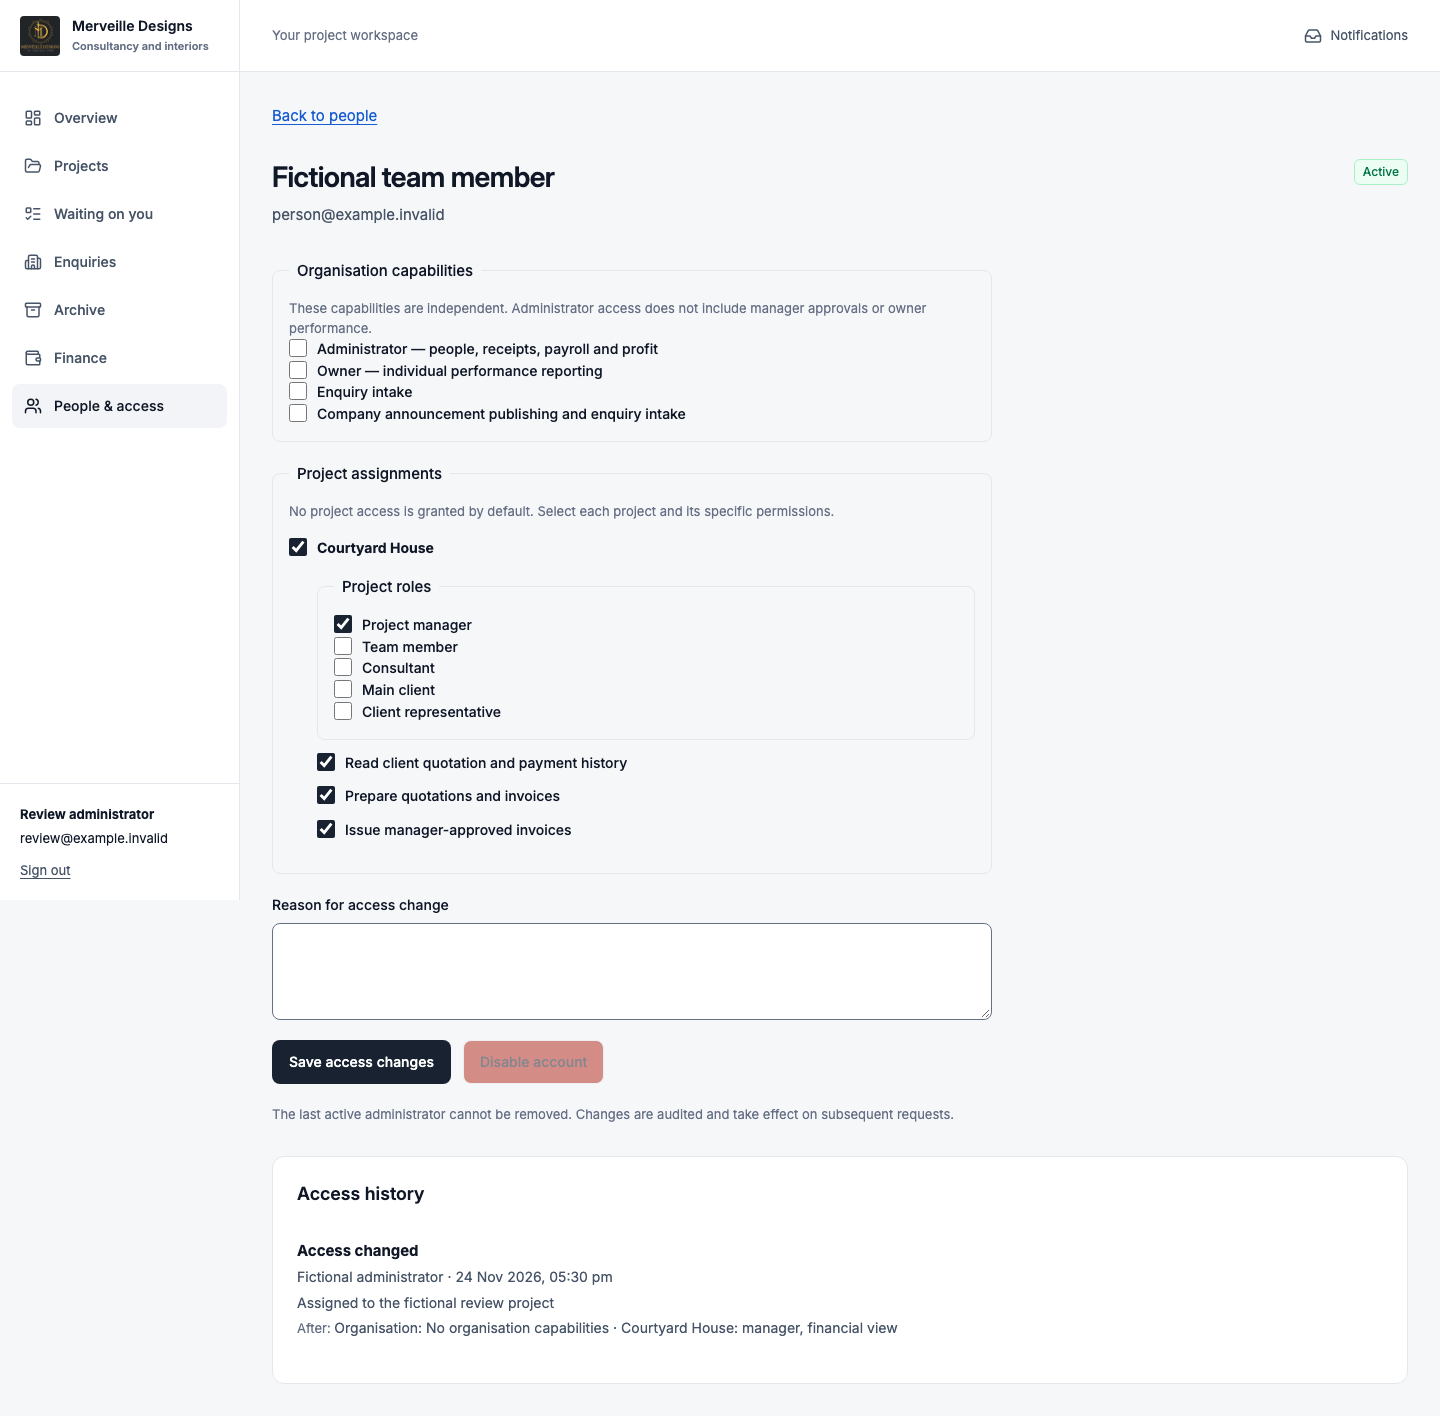
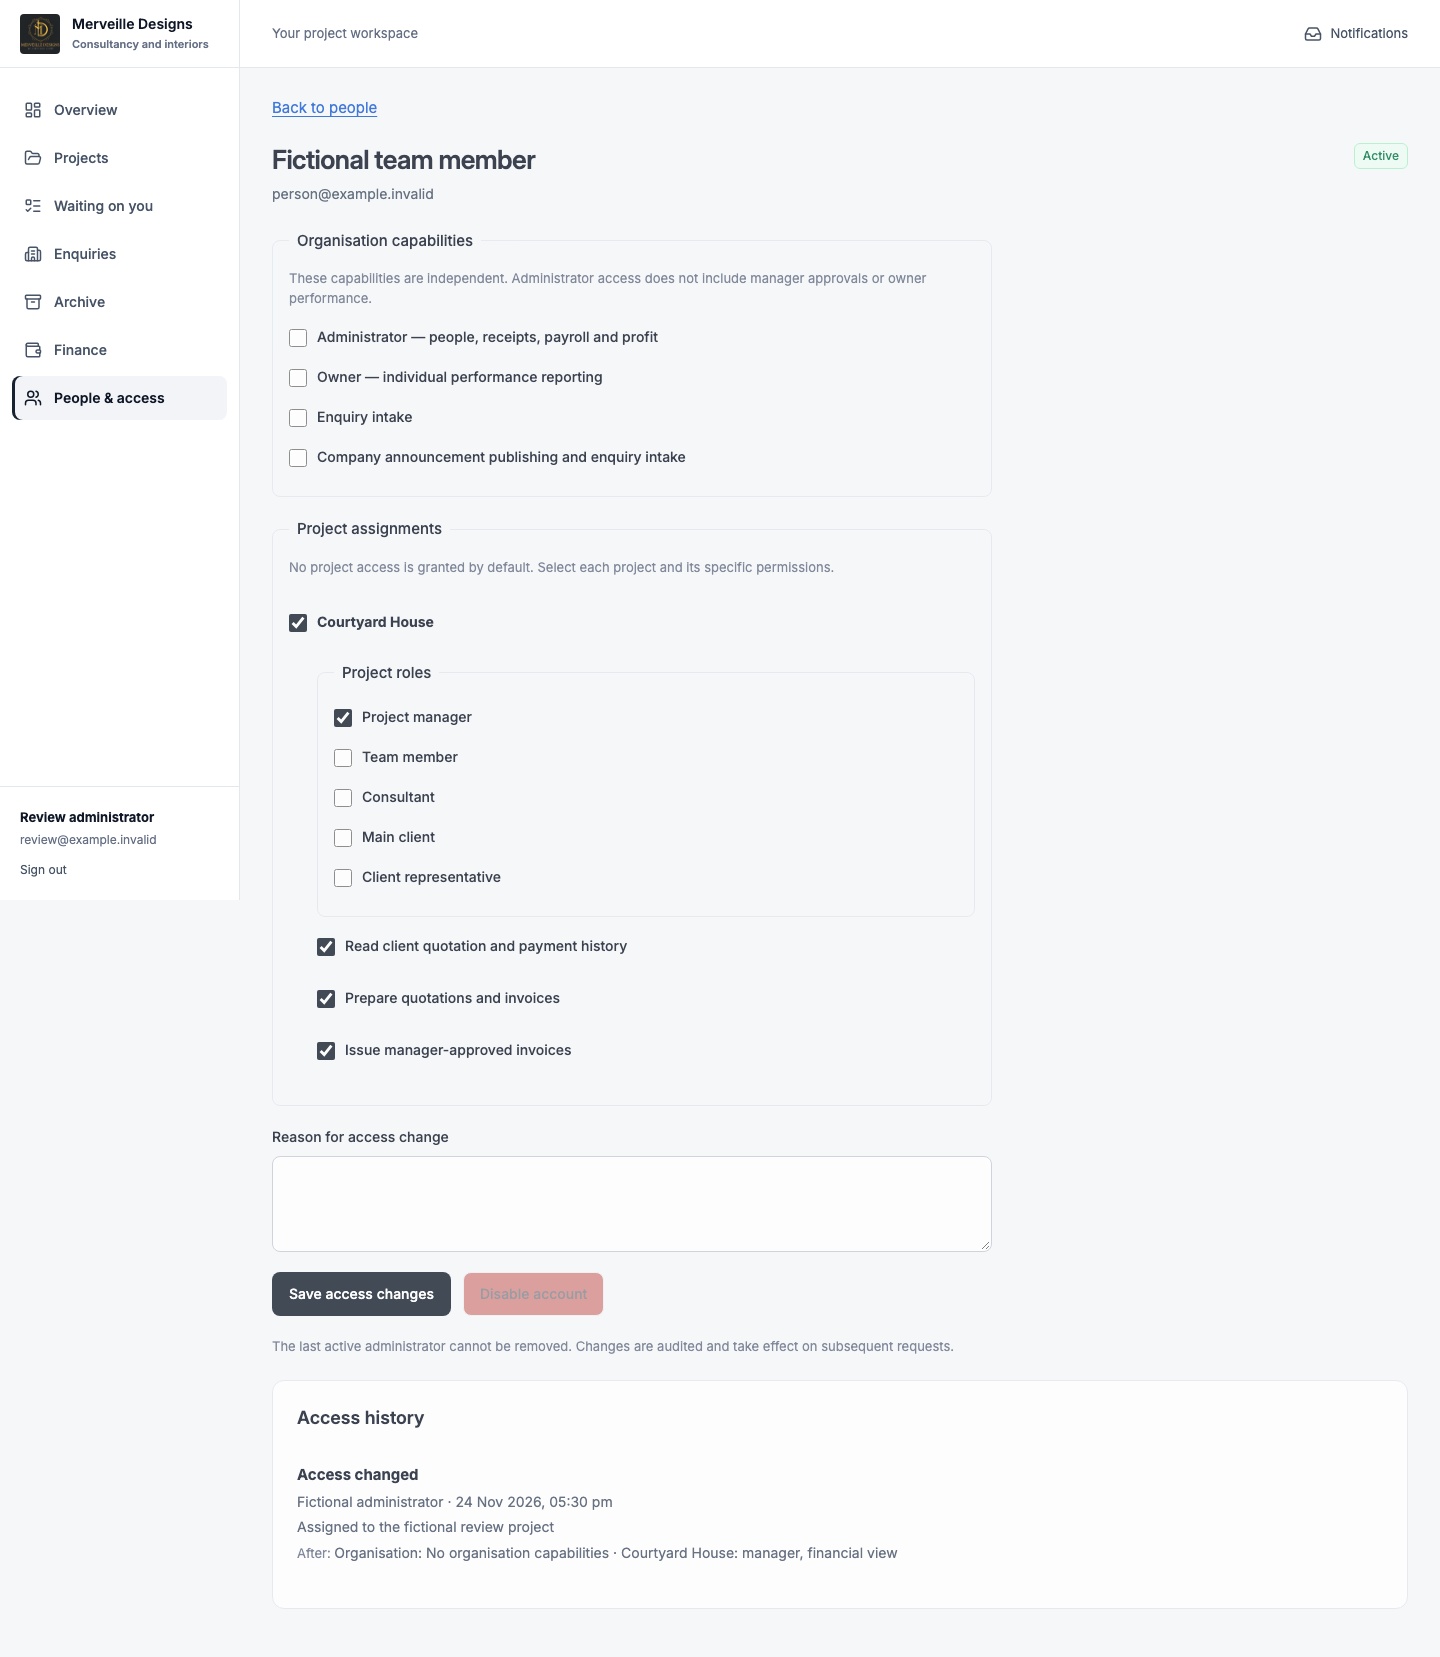
Record deployed portal refinement and responsive motion verification

diff --git a/docs/evidence/remediation/session.md b/docs/evidence/remediation/session.md
@@ -140,3 +140,18 @@ First staging deployment failed because Wrangler OAuth had expired and could not
 Added [R05 open-gate audit](r05-open-gates.md). Corrected stale Google-only kickoff and company retry wording. Explicitly surfaced a gap: nightly management-API backup scheduling, stale-success monitoring and continuous retention operations are not operational; the notification Cron and completed manual transport drill do not satisfy them. This requires implementation plus a separate scoped backup credential and actual hosted repeated-run evidence; the invitation token must not be broadened. Real team role/business UAT, real notification/webhook provider checks and populated remote recovery remain open.
 
 `npm run check:handoff` passed: 421 files, 677 local links, 70 acceptance cases. Documentation validation is distinct from application tests. Next input: private team mailboxes and deliberate global/project roles. Independent backup automation remains a separate unfinished engineering/credential gate, not a reason to label R05 complete.
+
+
+## 25 November — screenshot-driven premium UI refinement
+
+User requested fixing apparent 27 November access expiry, spacing/aesthetics, screen transitions and microinteractions, and deploying. Source `064f0d8` on `implement/merveille-portal`. Followed reviewed local frontend-design/build-merveille/Wrangler guidance. Plan: [design refinement](../../design/2026-11-25-polish.md).
+
+Verified invitation deadline affects only pending link acceptance, not active membership or bound-identity admission. No Cloudflare policy/account duration changed. Accepted history now reads “Account active · no scheduled access expiry”; pending dates explicitly identify the invitation link. Dialog explains 72-hour link validity and continuing accepted access. Added domain regression: after acceptance, expire the stored invitation and verify the same account and contractual grant still load. No extra roles, identity linking or account expiry bypass.
+
+Refined shared content gutters/24px rhythm, heading scale, neutral field borders, choice-row spacing, table interaction feedback and dialog backdrop/entrance. Compact priority emptiness, aligned project search/stage/archive filters and restored previously white-on-white Include Archived label with correct checkbox label association. Finance heading precedes one action row; duplicate Record Expense removed while preserving the functioning accounting forms. Archive uses the shared header/gutter. Mobile notifications now share the brand/menu header instead of occupying a second row. Next Link replaces full-load project navigation. One 160ms route opacity reveal, 180ms dialog entrance and short pressed/nav feedback honor global reduced-motion rules.
+
+Actual commands/results: `npm test` 106 tests/22 files passed; `npm run typecheck` passed; final `npm run build:worker` passed. `npm run test:browser` final 114 checks passed, 29 routes at 1440×900, 1024×768 and 390×844 plus focused identity/form/network/keyboard cases; zero page overflow or JS errors. New rendered checks verify accepted-account copy and disabled route/dialog animation under reduced motion. Earlier review caught an unintended desktop 14px field regression against the existing readability check; restored 16px controls before final pass. A new test initially used visible Close text instead of the control's accessible Close dialog label; corrected selector and reran. Logs `.private/polish-tests.log`, `.private/polish-typecheck.log`, `.private/polish-final-build.log`, `.private/polish-browser.log`. Public refreshed screenshots contain only fictional fixture records; they are not real business UAT.
+
+`wrangler whoami` verified pinned account; `wrangler deploy --env staging` succeeded, web version `3e003439-210c-42a3-9613-b4656648e7b9`; jobs unchanged. Actual Chrome signed-in ADMIN review verified accepted account has no expiry date, dialog link-only explanation, exactly one Record expense action, readable project filter, animated route and phone header with one Notifications link/no overflow. Reviewed actual screenshots; viewport restored afterward. Private proof `.private/polish-staging-people.jpg`, `.private/polish-finance-desktop.jpg`; no real email or screenshot committed. No invitation submission, financial record or permission mutation performed during this visual review.
+
+`npm run check:handoff` passed. R05 team/provider/continuous-backup/populated-remote-recovery gates remain unchanged and open; this is a deployed UI refinement, not blanket release acceptance.

diff --git a/task.md b/task.md
@@ -17,7 +17,7 @@ Dependencies and exact contracts: [active manifest](docs/remediation/manifest.js
 
 ## Current checkpoint
 
-- Current branch: `implement/merveille-portal`. Existing logo, Next/OpenNext and Wrangler foundation preserved. Latest deployed web `a5e8cbe1-52fc-460a-95b9-9fcb3005dce4`; jobs `de09aa26-c792-41d0-9b21-d91e7d6faa3b`.
+- Current branch: `implement/merveille-portal`. Existing logo, Next/OpenNext and Wrangler foundation preserved. Latest deployed web `3e003439-210c-42a3-9613-b4656648e7b9`; jobs `de09aa26-c792-41d0-9b21-d91e7d6faa3b`.
 - Protected staging: https://merveille-web-staging.rhelo-bible.workers.dev. User completed Cloudflare One-time PIN login. Existing initial ADMIN retained; OWNER endpoint denied. Last-administrator removal denied with clear guidance and unchanged atomic guard. Google Cloud configuration is no longer required for team sign-in.
 - Explicitly approved single-policy Admin credential is installed only in web/jobs platform secrets. Temporary transfer file deleted. Unrelated policy GET denied 403; actual People & access refresh reported “Invitation access is up to date.” No broad/domain admission was added.
 - Actual local checks: typecheck, 106 tests/22 files, ten workerd checks through all 21 migrations, Worker build passed. Typed last-admin assertions passed in 10 authorization tests. Earlier built frontend passed 112 checks across 29 pages/three viewport sizes with fictional API fixtures; this is distinct from real team UAT.
@@ -26,6 +26,13 @@ Dependencies and exact contracts: [active manifest](docs/remediation/manifest.js
 - Next exact action: obtain other team members’ exact sign-in emails and explicit global/project roles privately, invite through People & access, then complete second-admin, role-boundary and business UAT with their own accounts. No demo/impersonation controls exist.
 - Sister/company installation will use a separate Cloudflare account and fresh resources, secrets and bootstrap; cloning source alone does not transfer infrastructure. See [company setup](docs/operations/company-account-setup.md).
 - R05 remains open for team UAT, real provider/webhook tests, continuous backup implementation/configuration and populated remote recovery. See [actual evidence](docs/evidence/remediation/session.md) and [handoff](docs/operations/real-account-handoff.md). No production migration or WhatsApp send was performed.
+
+## Latest UI refinement
+
+- Source `064f0d8`, deployed web `3e003439-210c-42a3-9613-b4656648e7b9`. User screenshot review drove aligned gutters/section rhythm, compact empty states, readable project filters, softer fields, spaced capability choices, one finance action row, and a single compact mobile header.
+- Accepted invitation history now says “Account active · no scheduled access expiry.” The old date was a pre-acceptance link deadline; no account cutoff existed or was extended. Pending links remain single-use and time-limited. A regression verifies account/grants remain active after the stored invitation deadline.
+- Short route fade, dialog entrance and control/nav feedback respect reduced motion. No logo, business approval or access-policy expansion.
+- Actual checks: 106 tests passed; Workers build/typecheck passed; 114 built frontend browser checks passed across 29 routes/three viewport sizes, including motion/focus/expiry copy, with zero overflow or JS errors. Hosted signed-in ADMIN review verified People, invitation dialog, Finance, Projects and phone navigation. Fictional UI screenshots remain separate from private real-account proof.
 
 ## Latest independent follow-up
 

diff --git a/docs/operations/real-account-handoff.md b/docs/operations/real-account-handoff.md
@@ -8,7 +8,7 @@ The coding agent owns migration/build/regression commands. Jay and the pilot tea
 
 Staging deployment is explicitly authorized for R05. The operator created an isolated APAC D1 database (`merveille-data-staging`) and private R2 bucket (`merveille-files-staging`), and applied all 21 migrations. The remote reconciliation view reports zero errors. Existing preview/production resources were not modified.
 
-The protected staging origin is [merveille-web-staging.rhelo-bible.workers.dev](https://merveille-web-staging.rhelo-bible.workers.dev). Current Worker version is `a5e8cbe1-52fc-460a-95b9-9fcb3005dce4`. Production and old preview are unchanged. Preview URLs remain disabled; no custom Worker routes exist; the file bucket has no public managed domain.
+The protected staging origin is [merveille-web-staging.rhelo-bible.workers.dev](https://merveille-web-staging.rhelo-bible.workers.dev). Current Worker version is `3e003439-210c-42a3-9613-b4656648e7b9`. Production and old preview are unchanged. Preview URLs remain disabled; no custom Worker routes exist; the file bucket has no public managed domain.
 
 `wrangler whoami` confirms the same account as the signed-in dashboard, explicitly pinned in Wrangler configuration. The dashboard shows the existing Zero Trust team `plain-dream-04be.cloudflareaccess.com`. Earlier OAuth API empty lists did not reflect the dashboard inventory; organization API is 403. Do not infer absent infrastructure from those limited API responses.
 
